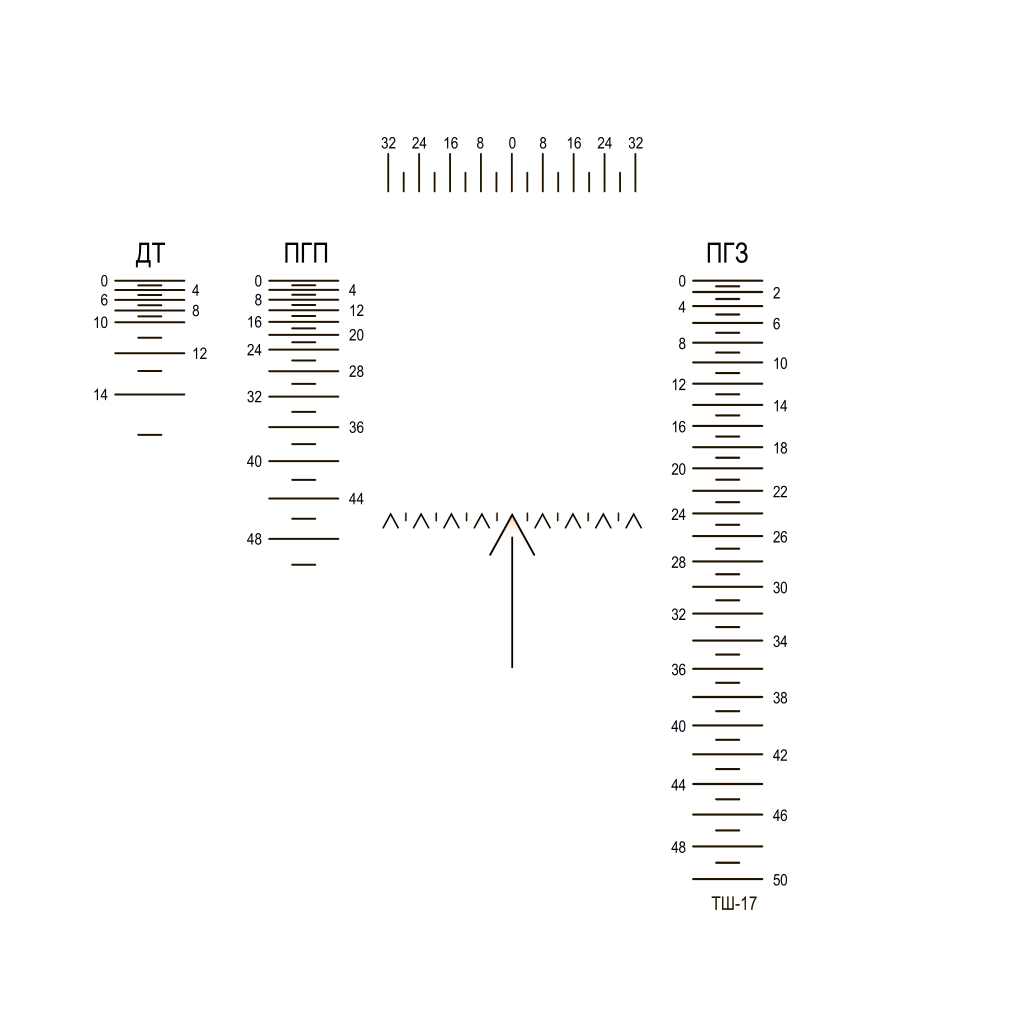
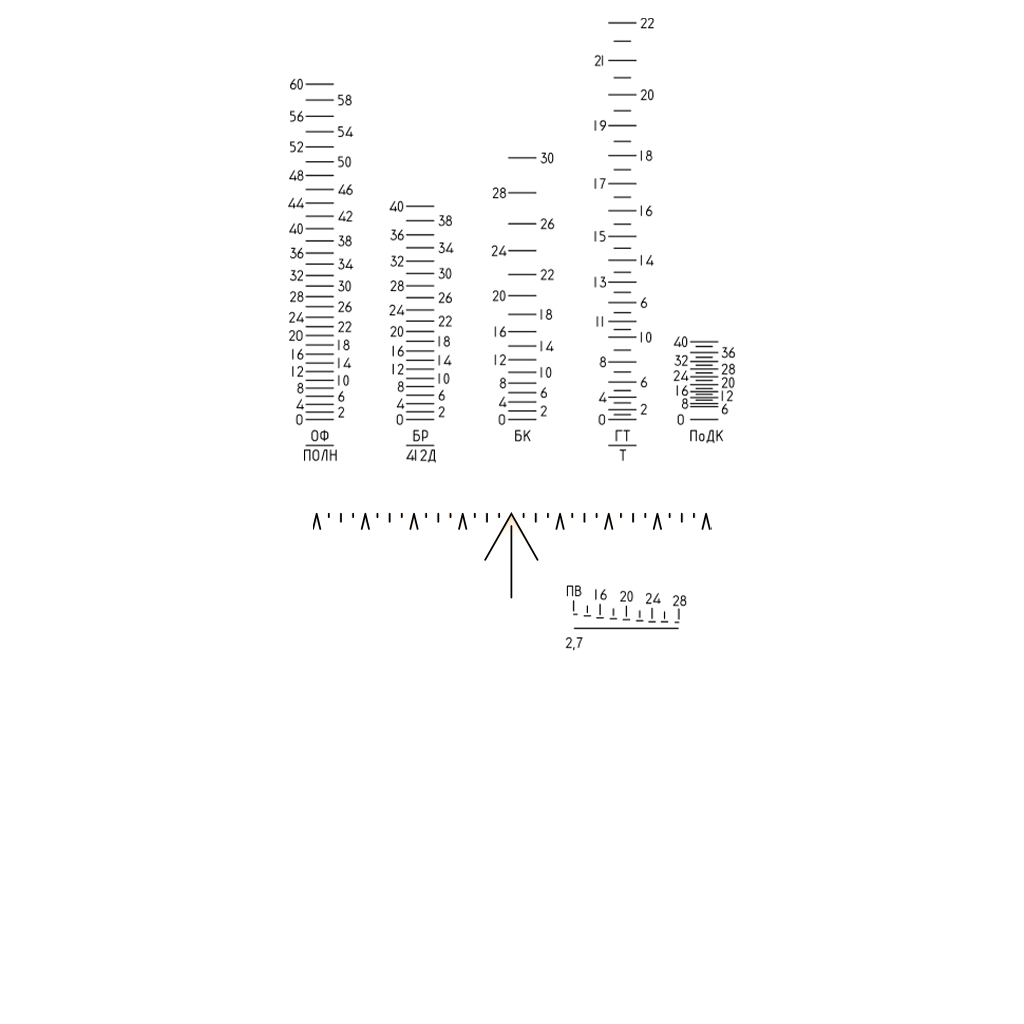
source code bump --> 2.3.1
Adapting Realistic ww2 sights replacing wot pc sights

diff --git a/version.md b/version.md
@@ -1,1 +1,1 @@
-v2.3.0-main
+v2.3.1-main
